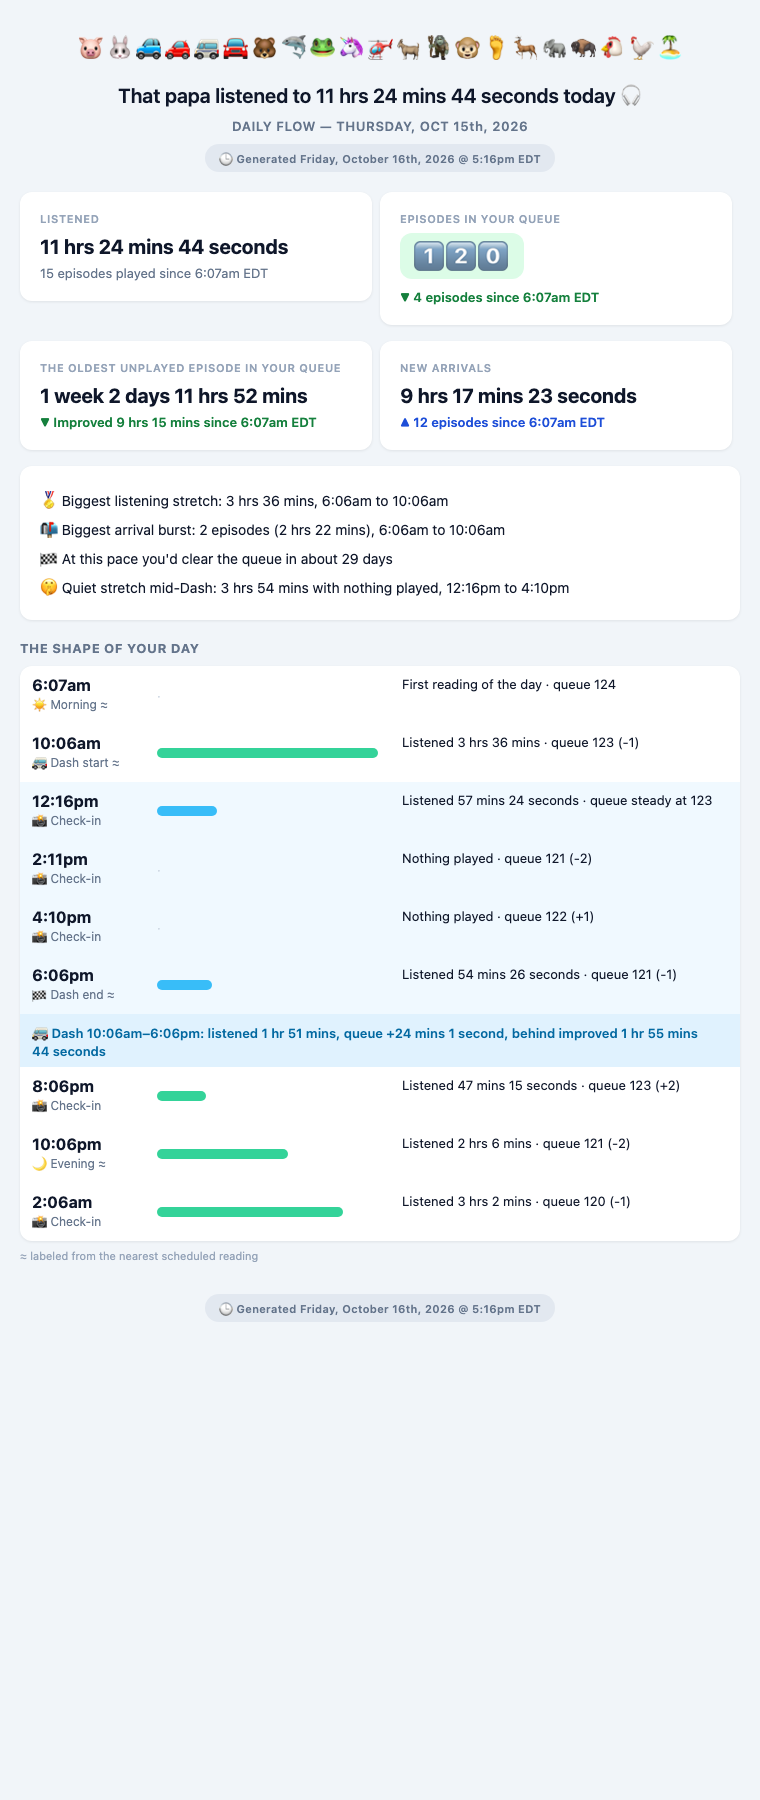
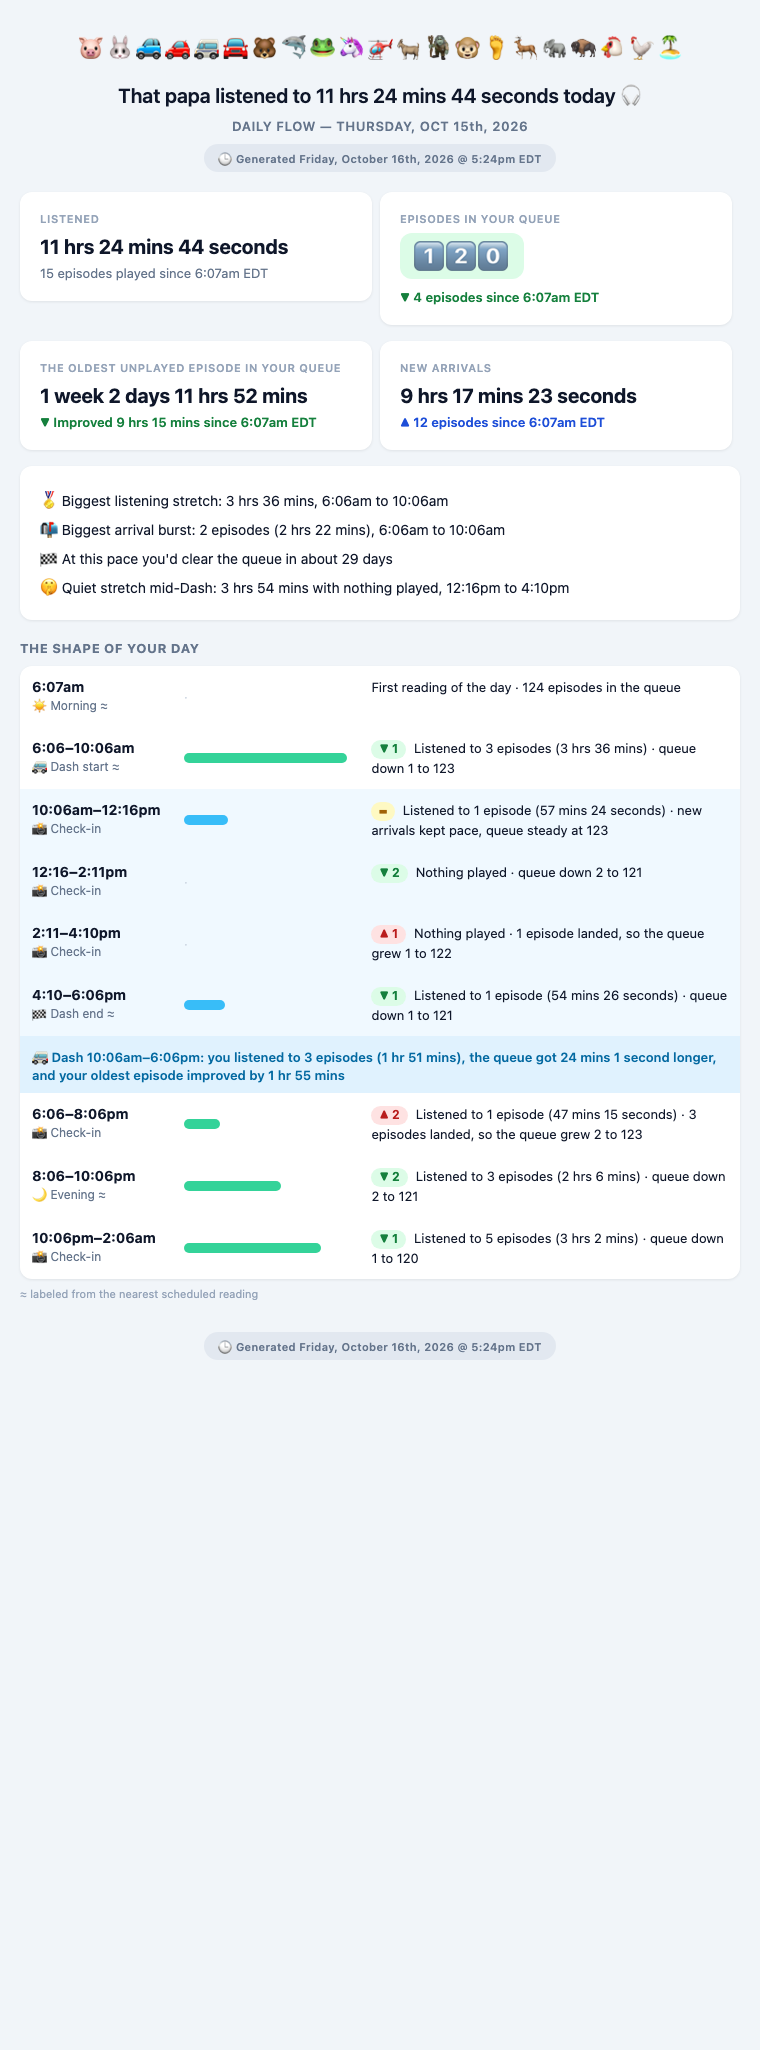
Flow web report: the shape of your day in plain words, with artwork and links
Each reading shows the window it covers, a sentence like "Listened to 3 episodes
(2 hrs 49 mins) · queue down 3 to 122" (or how many arrivals landed when the
queue grew), a colored chip for the queue change, and what was playing with
artwork and links when it changes. The Dash summary says how many episodes you
got through and what happened to the queue and your oldest episode.

Changed region(s): [[0.0, 0.0, 0.9987, 0.6844], [0.9079, 0.4978, 0.9382, 0.5289]]

diff --git a/flow.py b/flow.py
@@ -204,6 +204,7 @@ def summarize_day(history, day, tz=None):
                 "start": open_start,
                 "end": s,
                 "listened_seconds": sum(x["played_seconds"] for x in window),
+                "listened_count": sum(x["played_count"] for x in window),
                 "queue_seconds_delta": s["queue_seconds"] - open_start["queue_seconds"],
                 "queue_count_delta": s["queue_count"] - open_start["queue_count"],
                 "behind_delta": s["behind_seconds"] - open_start["behind_seconds"],
@@ -533,19 +534,36 @@ def label_name(snap):
     return f"{icon} {name}" + (" ≈" if snap.get("approx") else "")
 
 
-def window_sentence(w):
+def episodes_phrase(n):
+    return f"{n} episode" + ("" if n == 1 else "s")
+
+
+def window_story(w):
+    """One reading's window in plain words. Returns (text, tone, delta): tone is
+    "better"/"same"/"worse" for the queue and delta its change, or None for the
+    day's first reading."""
     sn = w["snap"]
+    q = sn["queue_count"]
     if w.get("first"):
-        return f"First reading of the day · queue {sn['queue_count']}"
-    bits = [f"Listened {dur_n(w['played'])}" if w["played"] > 0 else "Nothing played"]
-    qd = w["queue_delta"]
-    if qd is None:
-        bits.append(f"queue {sn['queue_count']}")
-    elif qd == 0:
-        bits.append(f"queue steady at {sn['queue_count']}")
+        return f"First reading of the day · {episodes_phrase(q)} in the queue", None, None
+    played, n = w["played"], sn["played_count"]
+    qd, arr = w["queue_delta"], w.get("arrivals_count") or 0
+    head = f"Listened to {episodes_phrase(n)} ({dur_n(played)})" if played > 0 else "Nothing played"
+    if qd < 0:
+        tail, tone = f"queue down {abs(qd)} to {q}", "better"
+    elif qd > 0:
+        tail = (f"{episodes_phrase(arr)} landed, so the queue grew {qd} to {q}" if arr
+                else f"queue up {qd} to {q}")
+        tone = "worse"
     else:
-        bits.append(f"queue {sn['queue_count']} ({qd:+d})")
-    return " · ".join(bits)
+        tail = (f"new arrivals kept pace, queue steady at {q}" if played > 0 and arr
+                else f"queue steady at {q}")
+        tone = "same"
+    return f"{head} · {tail}", tone, qd
+
+
+def window_sentence(w):
+    return window_story(w)[0]
 
 
 def pace_line(s):
@@ -931,10 +949,41 @@ def _white_card(inner, margin=16, extra=""):
             f'box-shadow:0 1px 3px rgba(0,0,0,0.08);{extra}">{inner}</div>')
 
 
+def window_label(snap, tz=None):
+    """"2:06\u20134:06pm", or "10:06am\u201312:06pm" when the window crosses noon."""
+    start = local_dt(snap, tz, key="since")
+    end = local_dt(snap, tz)
+    s_ap, e_ap = start.strftime("%p").lower(), end.strftime("%p").lower()
+    s_txt = start.strftime("%-I:%M")
+    return (f"{s_txt}\u2013{end.strftime('%-I:%M')}{e_ap}" if s_ap == e_ap
+            else f"{s_txt}{s_ap}\u2013{end.strftime('%-I:%M')}{e_ap}")
+
+
+def mini_playing_html(np):
+    """What was playing at a reading: small artwork, linked title and show."""
+    if not np or not np.get("title"):
+        return ""
+    art = ""
+    if np.get("artwork_url"):
+        img = (f'<img src="{html.escape(np["artwork_url"])}" width="36" height="36" '
+               'style="border-radius:6px;display:block;" alt="">')
+        link = np.get("episode_url") or np.get("podcast_url")
+        art = f'<a href="{html.escape(link)}" target="_blank">{img}</a>' if link else img
+    return (
+        '<div style="display:flex;gap:10px;align-items:center;margin-top:8px;">'
+        + (f'<div style="flex:0 0 36px;">{art}</div>' if art else "")
+        + '<div style="flex:1;min-width:0;font-size:12px;line-height:1.35;">'
+        '<span style="color:#047857;font-weight:700;">▶ Playing</span> '
+        f'{_link(np["title"], np.get("episode_url"), "#065f46", 600)}'
+        f'<div style="color:#64748b;">{_link(np.get("podcast"), np.get("podcast_url"), "#64748b")}</div></div></div>'
+    )
+
+
 def timeline_html(s, tz=None):
     peak = max([w["played"] for w in s["windows"]] + [1])
     in_dash = False
     rows = ""
+    last_playing = None
     for w in s["windows"]:
         sn = w["snap"]
         shaded = in_dash or sn["label"] == "dash-end"
@@ -942,18 +991,27 @@ def timeline_html(s, tz=None):
         width = max(3, round(100 * w["played"] / peak)) if w["played"] > 0 else 0
         bar = (f'<div style="height:10px;border-radius:5px;background:{"#38bdf8" if shaded else "#34d399"};width:{width}%;"></div>'
                if width else '<div style="font-size:11px;color:#cbd5e1;">·</div>')
-        playing = ""
-        if sn.get("now_playing"):
-            np = sn["now_playing"]
-            playing = (f'<div style="font-size:12px;color:#047857;margin-top:3px;">▶ {html.escape(np.get("title") or "")}'
-                       f' — {html.escape(np.get("podcast") or "")}</div>')
+        text, tone, delta = window_story(w)
+        chip = ""
+        if tone:
+            bg, fg, arrow = QUEUE_TONES[tone]
+            chip = (f'<span style="display:inline-block;background:{bg};color:{fg};font-weight:700;font-size:12px;'
+                    f'border-radius:10px;padding:1px 8px;margin-right:8px;white-space:nowrap;">'
+                    f'{arrow}{"" if not delta else " " + str(abs(delta))}</span>')
+        when = clock(sn, tz) if w.get("first") else window_label(sn, tz)
+        # show what was playing only when it changes, not on every row of one long episode
+        np = sn.get("now_playing")
+        playing_html = mini_playing_html(np) if np and np.get("title") != last_playing else ""
+        if np:
+            last_playing = np.get("title")
         rows += (
             f'<tr style="{dash_style}">'
-            f'<td style="padding:10px 12px;white-space:nowrap;vertical-align:top;">'
-            f'<div style="font-weight:700;">{clock(sn, tz)}</div>'
+            f'<td style="padding:12px;white-space:nowrap;vertical-align:top;">'
+            f'<div style="font-weight:700;font-size:14px;">{html.escape(when)}</div>'
             f'<div style="font-size:12px;color:#64748b;">{html.escape(label_name(sn))}</div></td>'
-            f'<td style="padding:10px 12px;width:34%;vertical-align:middle;">{bar}</td>'
-            f'<td style="padding:10px 12px;font-size:13px;vertical-align:top;">{html.escape(window_sentence(w))}{playing}</td>'
+            f'<td style="padding:12px;width:26%;vertical-align:middle;">{bar}</td>'
+            f'<td style="padding:12px;font-size:13px;vertical-align:top;line-height:1.4;">{chip}{html.escape(text)}'
+            f'{playing_html}</td>'
             '</tr>'
         )
         if sn["label"] == "dash-start":
@@ -962,12 +1020,18 @@ def timeline_html(s, tz=None):
             in_dash = False
             for dsh in s["dashes"]:
                 if dsh["end"] is sn:
+                    qd, bd = dsh["queue_seconds_delta"], dsh["behind_delta"]
+                    queue_bit = ("the queue got " + (f"{dur_n(abs(qd))} shorter" if qd < 0 else f"{dur_n(qd)} longer")
+                                 if qd else "the queue didn't move")
+                    age_bit = (f"improved by {dur_n(bd)}" if bd < 0
+                               else f"slipped by {dur_n(bd)}" if bd > 0 else "stayed the same")
                     rows += (
                         '<tr style="background:#e0f2fe;border-left:4px solid #38bdf8;">'
-                        f'<td colspan="3" style="padding:8px 12px;font-size:13px;font-weight:600;color:#0369a1;">'
-                        f'🚐 Dash {clock(dsh["start"], tz)}–{clock(dsh["end"], tz)}: listened '
-                        f'{html.escape(dur_n(dsh["listened_seconds"]))}, queue {html.escape(signed(dsh["queue_seconds_delta"]))}, '
-                        f'behind {html.escape(behind_phrase(dsh["behind_delta"]))}</td></tr>'
+                        f'<td colspan="3" style="padding:10px 12px;font-size:13px;font-weight:600;color:#0369a1;">'
+                        f'🚐 Dash {clock(dsh["start"], tz)}\u2013{clock(dsh["end"], tz)}: you listened to '
+                        f'{html.escape(episodes_phrase(dsh["listened_count"]))} ({html.escape(dur_n(dsh["listened_seconds"]))}), '
+                        f'{html.escape(queue_bit)}, and your oldest episode {html.escape(age_bit)}'
+                        '</td></tr>'
                     )
     note = ('<div style="font-size:11px;color:#94a3b8;margin-top:8px;">≈ labeled from the nearest scheduled reading</div>'
             if any(w["snap"].get("approx") for w in s["windows"]) else "")

diff --git a/tests/test_flow.py b/tests/test_flow.py
@@ -375,7 +375,7 @@ class StoryTests(unittest.TestCase):
         ]
         s = flow.summarize_day(history, datetime.date(2026, 10, 16), NY)
         self.assertEqual((s["listened_seconds"], s["listened_count"]), (7200, 3))
-        self.assertEqual(flow.window_sentence(s["windows"][0]), "First reading of the day · queue 120")
+        self.assertEqual(flow.window_sentence(s["windows"][0]), "First reading of the day · 120 episodes in the queue")
         self.assertEqual(s["biggest_listen"]["snap"]["label"], "manual")
 
     def test_every_card_says_since_the_same_time(self):
@@ -612,6 +612,68 @@ class TagDashTests(unittest.TestCase):
         rows, _, _ = flow.tag_dash(self.history, self.day, datetime.time(10, 11), datetime.time(18, 18), NY)
         s = flow.summarize_day(rows, self.day, NY)
         self.assertEqual(len(s["dashes"]), 1)
+
+
+class WindowStoryTests(unittest.TestCase):
+    def window(self, played_count, played, qd, arrivals, q=120):
+        return {"snap": {"queue_count": q, "played_count": played_count}, "played": played,
+                "queue_delta": qd, "arrivals_count": arrivals, "first": False}
+
+    def test_what_was_playing_is_shown_only_when_it_changes(self):
+        playing = {"title": "Same Episode", "podcast": "Show", "artwork_url": "https://a/1.jpg"}
+        history = [snap("2026-10-16T08:00", "morning"), snap("2026-10-16T09:00"), snap("2026-10-16T10:00"),
+                   snap("2026-10-16T11:00")]
+        for h in history[1:3]:
+            h["now_playing"] = dict(playing)
+        history[3]["now_playing"] = dict(playing, title="Different Episode")
+        s = flow.summarize_day(history, datetime.date(2026, 10, 16), NY)
+        page = flow.render_day_html(s, NY)
+        self.assertEqual(page.count("Same Episode"), 1)
+        self.assertEqual(page.count("Different Episode"), 1)
+
+    def test_window_label_adds_am_pm_only_when_the_window_crosses_noon(self):
+        a = snap("2026-10-16T14:00", since_local_iso="2026-10-16T12:00")
+        b = snap("2026-10-16T12:06", since_local_iso="2026-10-16T10:06")
+        self.assertEqual(flow.window_label(a, NY), "12:00\u20132:00pm")
+        self.assertEqual(flow.window_label(b, NY), "10:06am\u201312:06pm")
+
+    def test_listening_that_shrinks_the_queue(self):
+        text, tone, delta = flow.window_story(self.window(3, 9000, -3, 0, 122))
+        self.assertEqual(text, "Listened to 3 episodes (2 hrs 30 mins) · queue down 3 to 122")
+        self.assertEqual((tone, delta), ("better", -3))
+
+    def test_listening_outpaced_by_arrivals(self):
+        text, tone, delta = flow.window_story(self.window(1, 2400, 2, 3, 126))
+        self.assertEqual(text, "Listened to 1 episode (40 mins) · 3 episodes landed, so the queue grew 2 to 126")
+        self.assertEqual(tone, "worse")
+
+    def test_arrivals_keeping_pace(self):
+        text, tone, _ = flow.window_story(self.window(2, 3000, 0, 2, 121))
+        self.assertEqual(text, "Listened to 2 episodes (50 mins) · new arrivals kept pace, queue steady at 121")
+        self.assertEqual(tone, "same")
+
+    def test_a_quiet_window(self):
+        text, tone, _ = flow.window_story(self.window(0, 0, 0, 0, 121))
+        self.assertEqual(text, "Nothing played · queue steady at 121")
+        text, tone, _ = flow.window_story(self.window(0, 0, 3, 3, 124))
+        self.assertEqual(text, "Nothing played · 3 episodes landed, so the queue grew 3 to 124")
+
+    def test_timeline_shows_the_window_the_artwork_and_the_dash_in_words(self):
+        history = [
+            snap("2026-10-16T08:00", "morning", 120, 300000, 900000, 0, 0),
+            snap("2026-10-16T10:00", "dash-start", 120, 300000, 900000, 1, 600),
+            snap("2026-10-16T18:00", "dash-end", 117, 290000, 860000, 3, 9000),
+        ]
+        history[2]["now_playing"] = {"title": "Pregame", "podcast": "Kraken Audio", "episode_url": "https://e/1",
+                                     "podcast_url": "https://p/1", "artwork_url": "https://a/1.jpg"}
+        s = flow.summarize_day(history, datetime.date(2026, 10, 16), NY)
+        page = flow.render_day_html(s, NY)
+        self.assertIn("4:00\u20136:00pm", page)
+        self.assertIn("8:00\u201310:00am", page)
+        self.assertIn("Listened to 3 episodes (2 hrs 30 mins) · queue down 3 to 117", page)
+        self.assertIn('src="https://a/1.jpg"', page)
+        self.assertIn('href="https://e/1"', page)
+        self.assertIn("you listened to 3 episodes (2 hrs 30 mins), the queue got 2 hrs 46 mins shorter, and your oldest episode improved by 11 hrs 6 mins", page)
 
 
 class RenderTests(unittest.TestCase):
